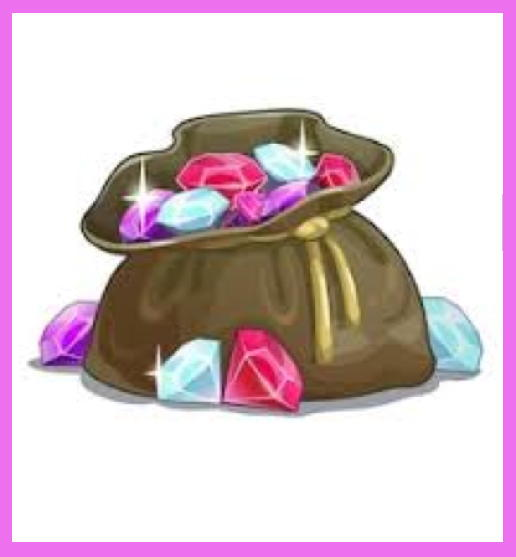
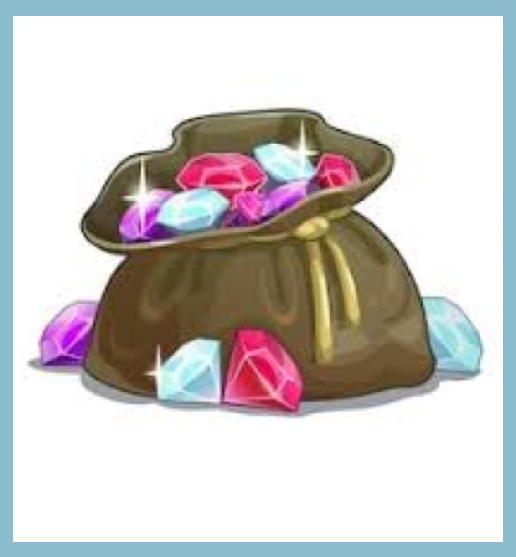
color changes

Changed region(s): [[0.0, 0.0, 1.0, 1.0]]

diff --git a/index.html b/index.html
@@ -40,6 +40,7 @@
 
       <div class="work">
         <a href="https://github.com/MechanicalMouse/Psychic-Game"><img id="portfolioGithub" src="assets/images/github.png"></a>
+        <a><img id="portfolioGithub" src="assets/images/info.png"></a>
         <a href="pgameindex.html"><img id="app" src="assets/images/portfolio/eye.jpg" alt="Psychic Game"></a>
 
         <a><h3>Psychic Game</h3></a>
@@ -47,6 +48,7 @@
 
       <div class="work">
         <a href="https://github.com/MechanicalMouse/Unit-4-Game"><img id="portfolioGithub" src="assets/images/github.png"></a>
+        <a><img id="portfolioGithub" src="assets/images/info.png"></a>
         <a href="gemindex.html"><img id="app" src="assets/images/portfolio/Gemgame.jpg" alt="Gem Game"></a>
 
         <a><h3>Gem Game</h3></a>
@@ -54,6 +56,7 @@
 
       <div class="work">
         <a href="https://github.com/MechanicalMouse/TriviaGame"><img id="portfolioGithub" src="assets/images/github.png"></a>
+        <a><img id="portfolioGithub" src="assets/images/info.png"></a>
         <a href="hamindex.html"><img id="app" src="assets/images/portfolio/bijou.jpg" alt="Hamster Trivia Quiz"></a>
 
         <a><h3>Hamster Trivia Quiz</h3></a>
@@ -61,6 +64,15 @@
 
       <div class="work">
         <a href="https://github.com/MechanicalMouse/GifTastic"><img id="portfolioGithub" src="assets/images/github.png"></a>
+        <span><img id="portfolioGithub" src="assets/images/info.png"></span>
+        
+        <!--<div class="dropdown">
+          
+          <div class="dropdown-content">
+            <p>Hello World!</p>
+          </div>
+        </div>-->
+        
         <a href="gifindex.html"><img id="app" src="assets/images/portfolio/gift.jpg" alt="Favorite Gifs"></a>
         
         <a><h3>Favorite Gifs</h3></a>
@@ -68,6 +80,7 @@
 
       <div class="work">
         <a href="https://github.com/MechanicalMouse/TrainScheduler>"><img id="portfolioGithub" src="assets/images/github.png"></a>
+        <a><img id="portfolioGithub" src="assets/images/info.png"></a>
         <a href="trainindex.html"><img id="app" src="assets/images/portfolio/train.jpg" alt="Train Scheduler"></a>
 
         <a><h3>Train Scheduler</h3></a>
@@ -75,6 +88,7 @@
 
       <div class="work">
         <a><img id="portfolioGithub" src="assets/images/github.png"></a>
+        <a><img id="portfolioGithub" src="assets/images/info.png"></a>
         <a><img id="app" src="assets/images/portfolio/closedchest.jpg" alt="Coming Soon"></a>
   
         <a><h3> <br></h3></a>
@@ -84,6 +98,7 @@
 
       <div class="work">
         <a href="https://github.com/MechanicalMouse/Find-A-Recipe"><img id="portfolioGithub" src="assets/images/github.png"></a>
+        <a><img id="portfolioGithub" src="assets/images/info.png"></a>
         <a href="https://rawkitman.github.io/Find-A-Recipe/"><img id="app" src="assets/images/recipe.png" alt="Find-A-Recipe"></a>
   
         <a><h3>Recipe Finder</h3></a>
@@ -91,6 +106,7 @@
     
       <div class="work">
         <a><img id="portfolioGithub" src="assets/images/github.png"></a>
+        <a><img id="portfolioGithub" src="assets/images/info.png"></a>
         <a><img id="app" src="assets/images/portfolio/closedchest.jpg" alt="Coming Soon"></a>
 
         <a><h3> <br></h3></a>
@@ -98,6 +114,7 @@
 
       <div class="work">
         <a><img id="portfolioGithub" src="assets/images/github.png"></a>
+        <a><img id="portfolioGithub" src="assets/images/info.png"></a>
         <a><img id="app" src="assets/images/portfolio/closedchest.jpg" alt="Coming Soon"></a>
 
         <a><h3> <br></h3></a>

diff --git a/assets/css/style.css b/assets/css/style.css
@@ -35,7 +35,7 @@ h2,
 h3 {
   font-family: Georgia, Times, "Times New Roman", serif;
   font-weight: 700;
-  color: #5a1488;
+  color: #8d44fc;
 }
 
 h1 {
@@ -59,7 +59,7 @@ h3 {
   margin: 0;
   color: #666666;
   background: #666666;
-  border-bottom: 8px solid #4aaaa5;
+  border-bottom: 8px solid #92bdfe;
 }
 
 #logo {
@@ -73,7 +73,7 @@ h3 {
   color: #ffffff;
   text-align: center;
   text-decoration: none;
-  background: #4aaaa5;
+  background: #92bdfe;
   border-top: 2px outset;
   border-left: 2px outset;
   border-right: 2px outset;
@@ -98,6 +98,25 @@ nav a:first-child {
   border-left: 0 none;
 }
 
+.dropdown {
+  position: relative;
+  display: inline-block;
+}
+
+.dropdown-content {
+  display: none;
+  position: absolute;
+  background-color: #f9f9f9;
+  min-width: 160px;
+  box-shadow: 0px 8px 16px 0px rgba(0,0,0,0.2);
+  padding: 12px 16px;
+  z-index: 1;
+}
+
+.dropdown:hover .dropdown-content {
+  display: block;
+}
+
 /* footer */
 
 footer {
@@ -108,7 +127,7 @@ footer {
   color: #cccccc;
   text-align: center;
   background: #666666;
-  border-top: 8px solid #4aaaa5;
+  border-top: 8px solid #92bdfe;
   height: 50px;
 }
 
@@ -136,7 +155,7 @@ h3 {
   border-bottom: 2px solid #eeeeee;
 }
 
-/* portfolio page */
+/* portfolio section */
 
 #app {
   width: 100%;
@@ -178,7 +197,7 @@ h3 {
   line-height: 30px;
   color: #ffffff;
   text-align: center;
-  background: #4aaaa5;
+  background: #92bdfe;
   border-bottom: 0;
 }
 
@@ -190,45 +209,6 @@ h3 {
   margin-right: 25px;
 }
 
-/* contact page */
-
-#contact-form ul {
-  margin-bottom: 20px;
-}
-
-#contact-form li {
-  margin-bottom: 10px;
-}
-
-label,
-input[type=text],
-input[type=email],
-textarea {
-  display: block;
-  width: 100%;
-}
-
-input[type=text],
-input[type=email],
-textarea {
-  height: 35px;
-  padding: 0 10px;
-  font-size: 14px;
-  border: 1px solid #dddddd;
-}
-
-textarea {
-  height: 200px;
-}
-
-input[type=submit] {
-  padding: 10px 30px;
-  font-size: 18px;
-  color: #ffffff;
-  cursor: pointer;
-  background: #4aaaa5;
-  border: 0 none;
-}
 
 @media only screen and (max-width: 640px) {
   #logo{
